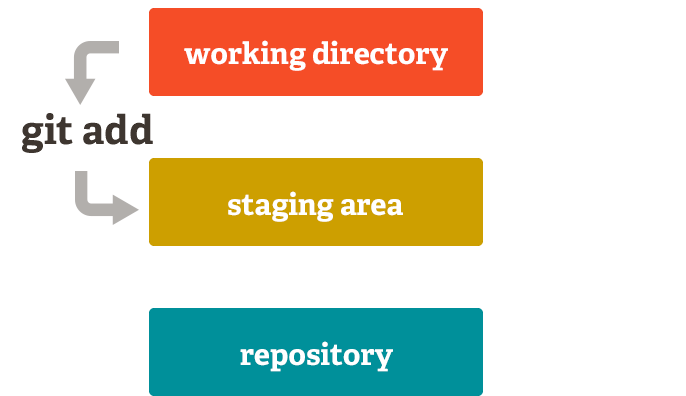
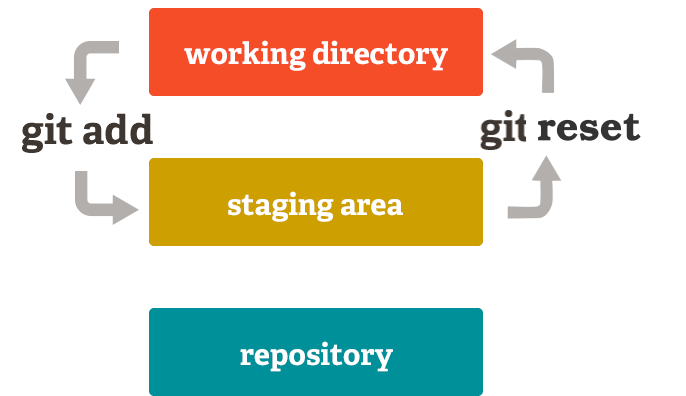
added git reset to pictures

Changed region(s): [[0.7041, 0.2727, 0.949, 0.3939], [0.7347, 0.3939, 0.8265, 0.5758], [0.7041, 0.0909, 0.8265, 0.2424]]

diff --git a/slides.md b/slides.md
@@ -140,28 +140,35 @@ git add
 git ls-files
 ```
 
+
 ### Gestion des modifications sur un commit (2)
+
+\center
+\includegraphics[width=10cm]{img/work_stag_reset.png}
+
+
+### Gestion des modifications sur un commit (3)
 
 * Enlever des modifications d'un futur commit
 ```sh
 git reset
 ```
 
-### Gestion des modifications sur un commit (3)
+### Gestion des modifications sur un commit (4)
 
 * Regarder ce qui va etre "commité"
 ```sh
 git status
 ```
 
-### Gestion des modifications sur un commit (4)
+### Gestion des modifications sur un commit (5)
 
 \center
 \includegraphics[width=10cm]{img/work_stag_commit_one_arrow.png}
 
 Note: repository est local
 
-### Gestion des modifications sur un commit (5)
+### Gestion des modifications sur un commit (6)
 
 \center
 \includegraphics[width=10cm]{img/work_stag_commit.png}
@@ -169,7 +176,7 @@ Note: repository est local
 Note: repository est local
 
 
-### Gestion des modifications sur un commit (6)
+### Gestion des modifications sur un commit (7)
 
 * Finalement faire le commit
 ```sh
